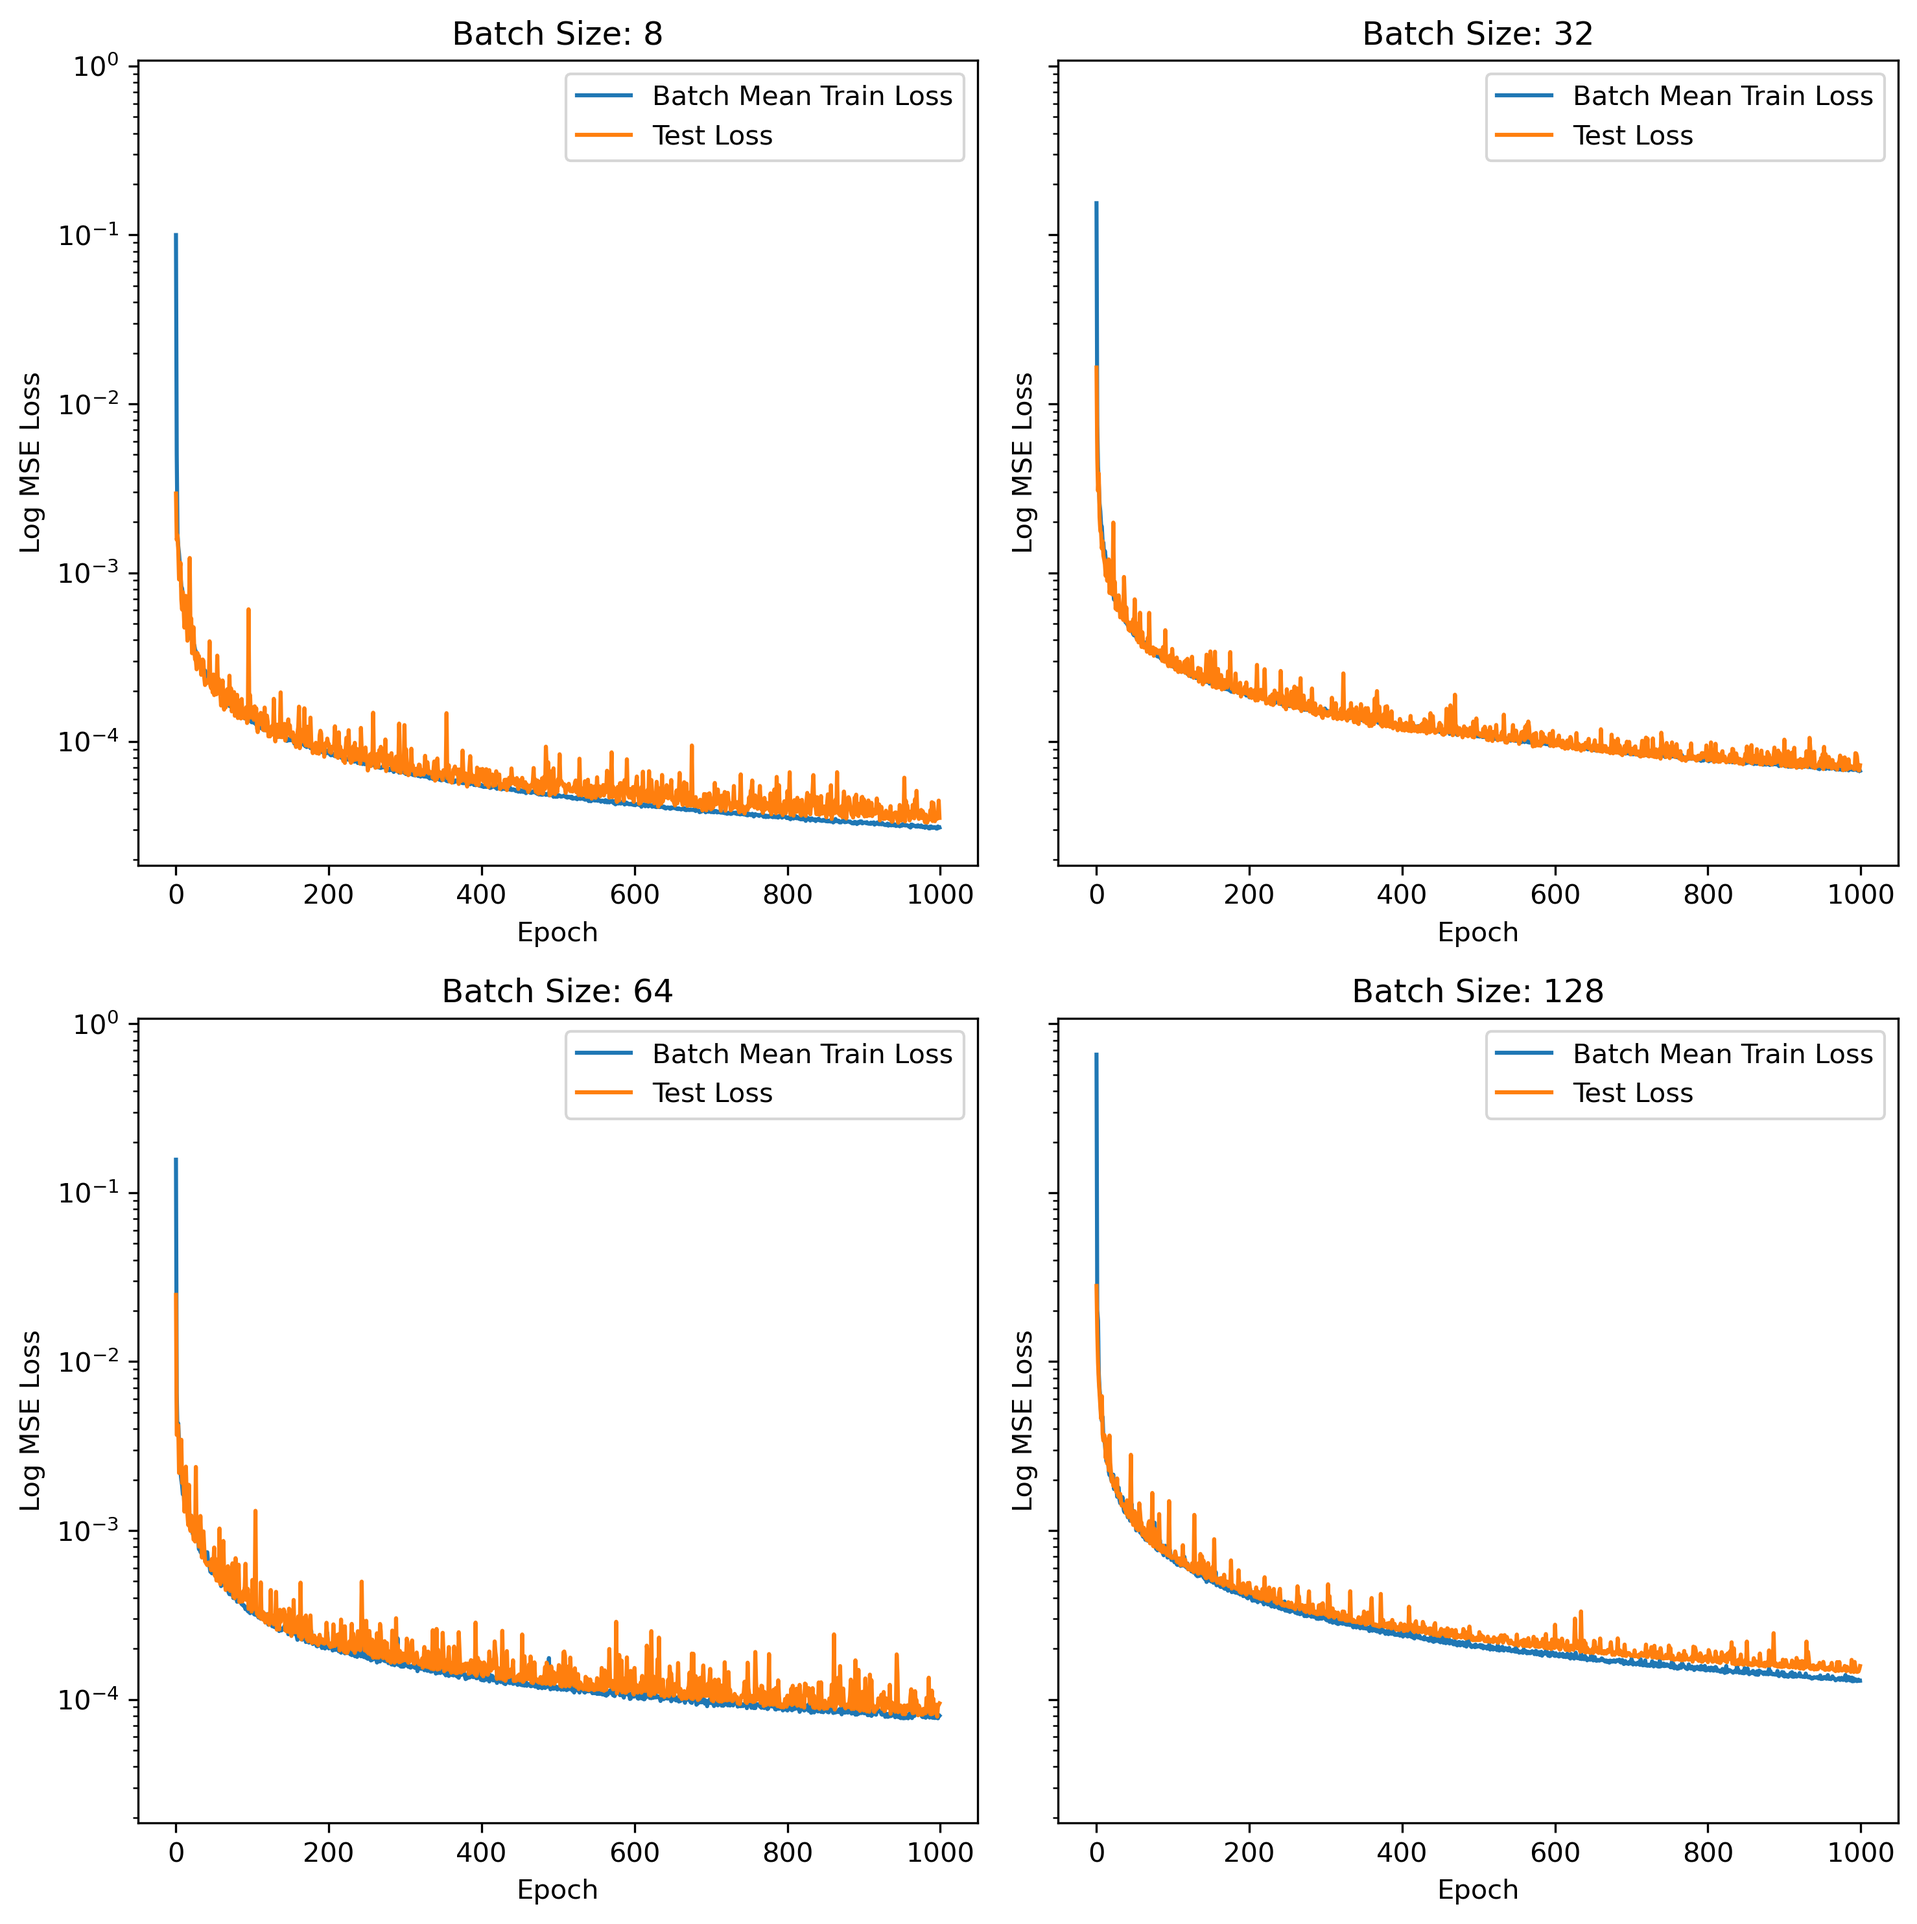
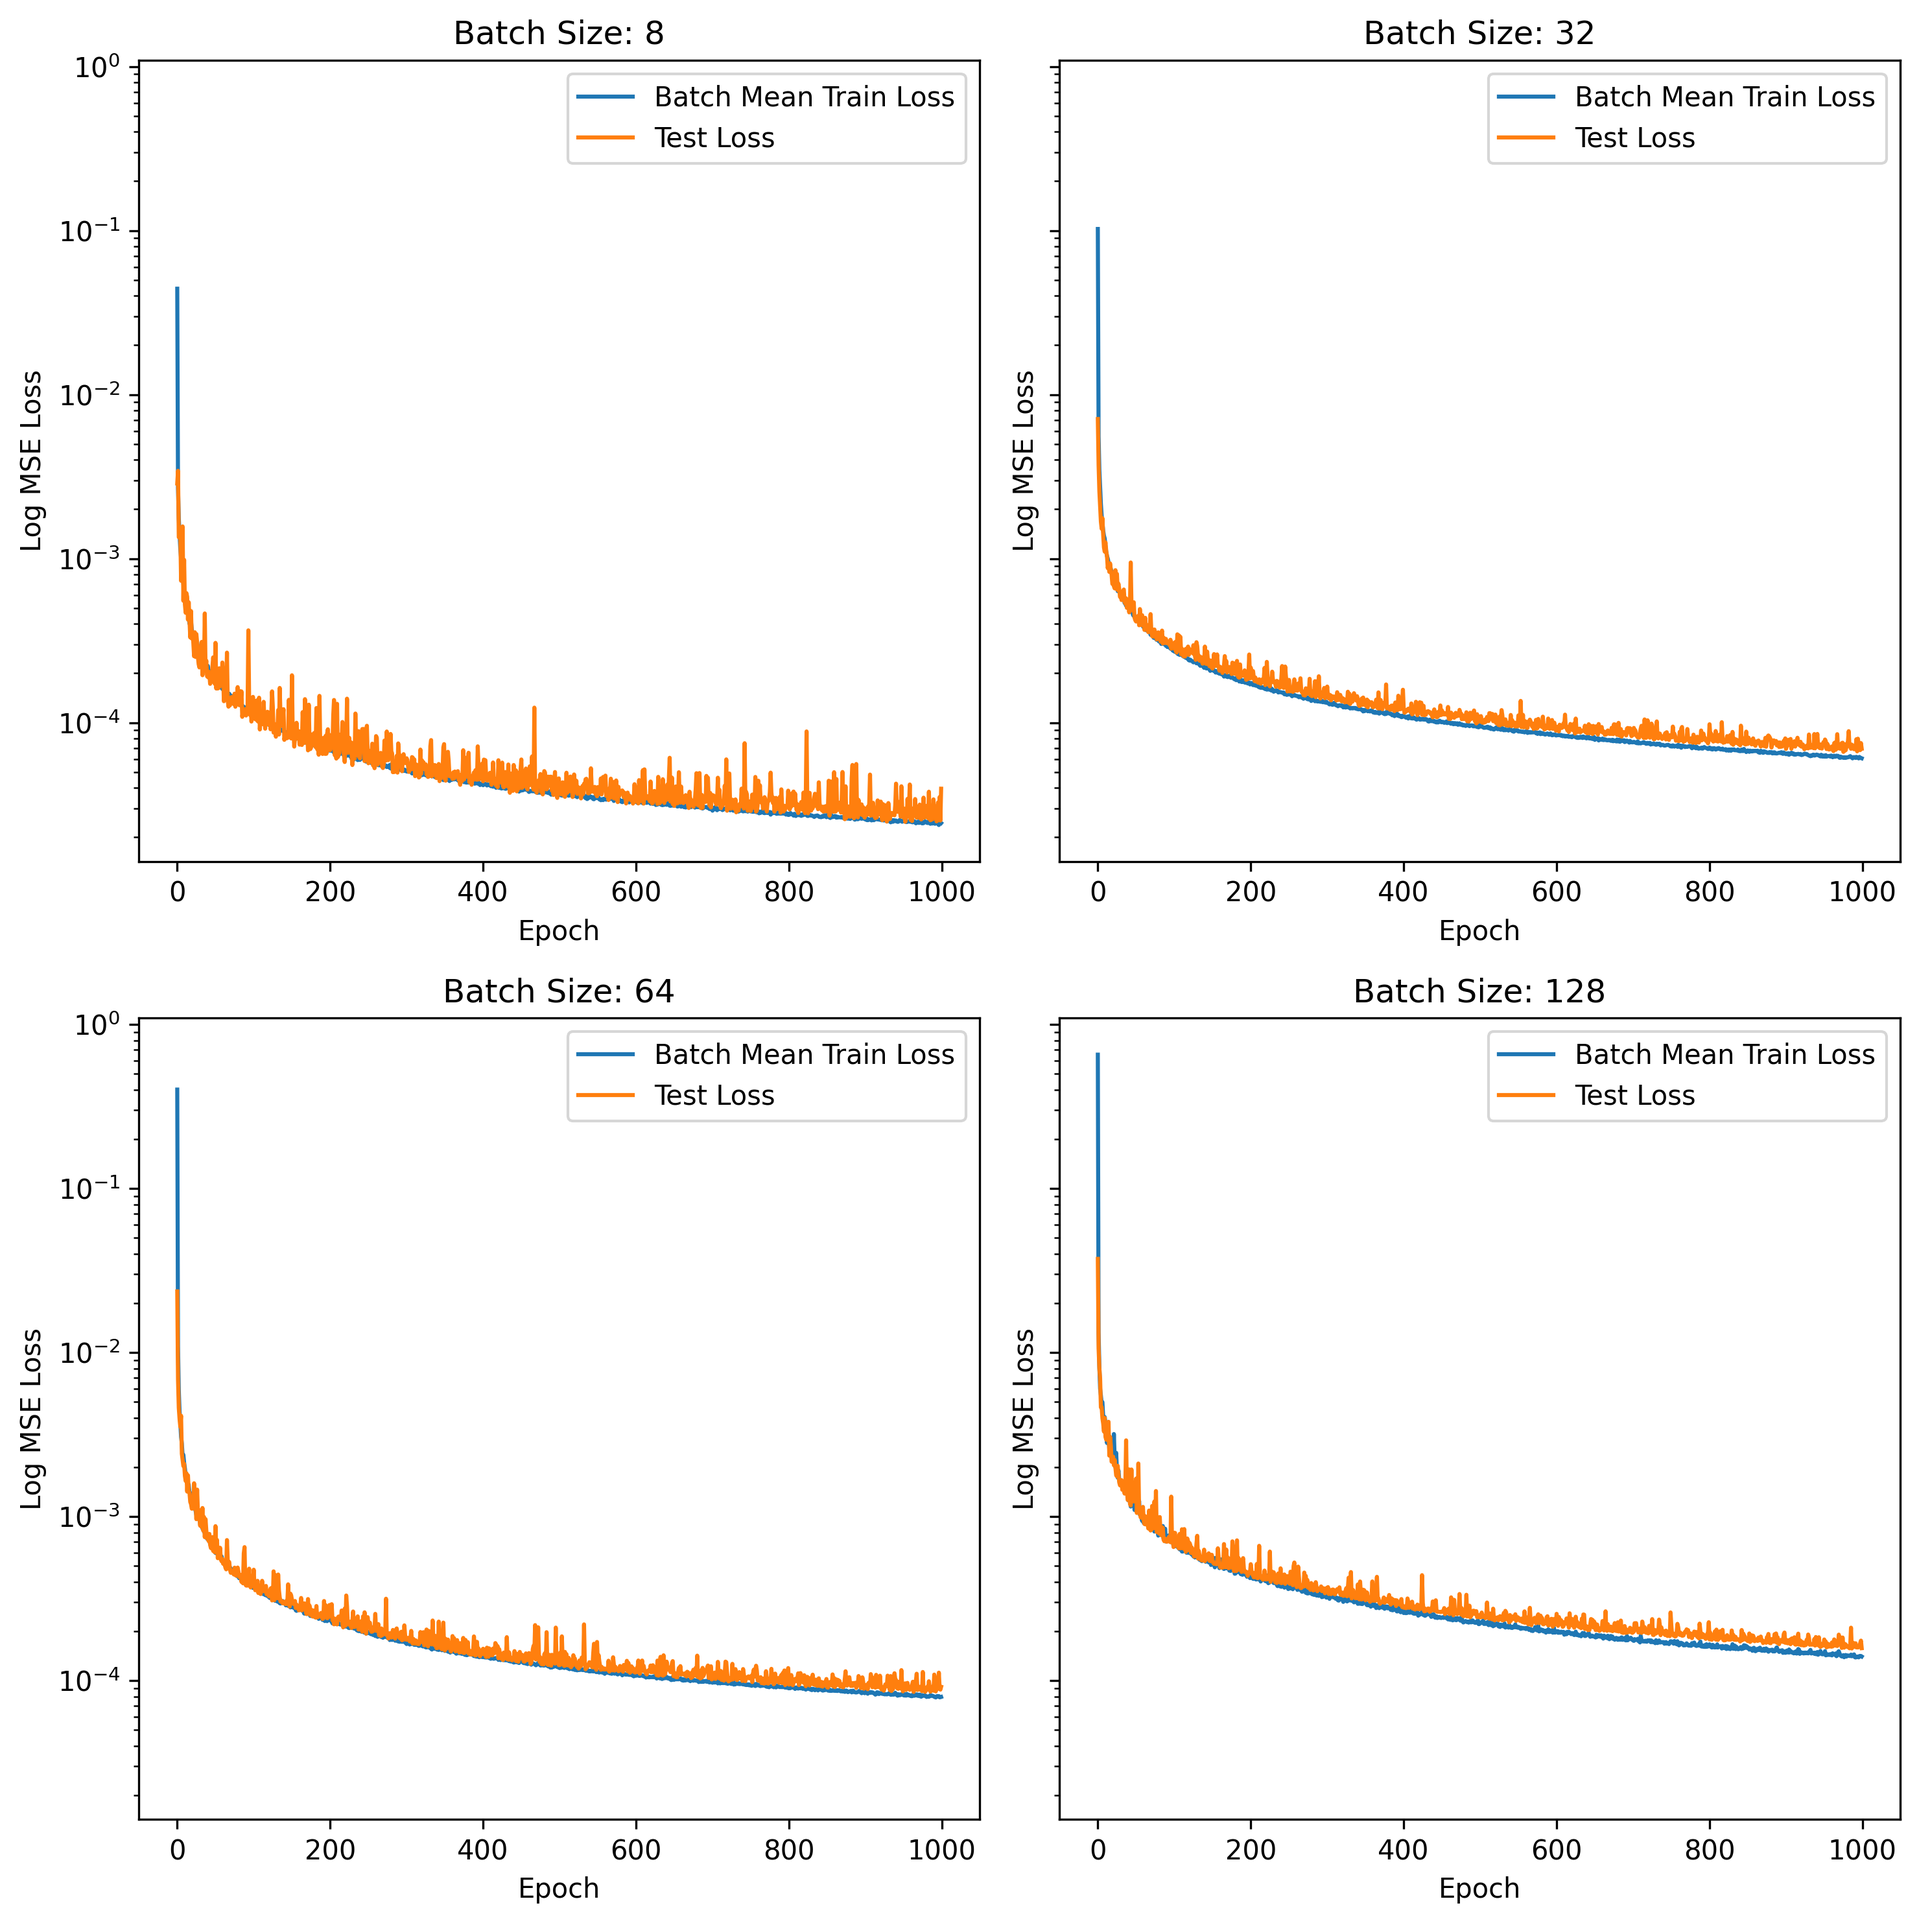
Adding in batch size functionality

diff --git a/midterm_nueralnetworks/cases/case_3_batch_experimentation.py b/midterm_nueralnetworks/cases/case_3_batch_experimentation.py
@@ -1,0 +1,88 @@
+import numpy as np
+from matplotlib import pyplot as plt
+from sklearn.metrics import mean_squared_error
+from sklearn.model_selection import train_test_split
+from sklearn.datasets import load_digits
+from sklearn.preprocessing import OneHotEncoder
+from midterm_nueralnetworks.neural_network.feed_forward_neural_network import FeedforwardNeuralNetwork
+from midterm_nueralnetworks.neural_network.layer import Layer
+from midterm_nueralnetworks.neural_network.loss import NLL_derivative_softmax
+
+
+def main():
+    print("Preparing data")
+    X, Y = load_digits(return_X_y=True)
+
+    encoder = OneHotEncoder()
+    Y = encoder.fit_transform(Y.reshape(-1, 1)).toarray()
+
+    X_train, X_test, Y_train, Y_test = train_test_split(X, Y, test_size=0.05, random_state=42, stratify=Y)
+
+    MAX_EPOCHS = 500
+    LR = 1e-3
+    batch_sizes = [8, 32, 64, 128]  # List of batch sizes to experiment with
+
+    fig, axs = plt.subplots(2, 2, figsize=(10, 10), sharey=True)
+
+    for batch_size, ax in zip(batch_sizes, axs.flatten()):
+
+        # Initialize the network
+        net = FeedforwardNeuralNetwork([
+            Layer(64, 64, "relu"),
+            Layer(64, 32, "relu"),
+            Layer(32, 10, "softmax", final_layer=True)
+        ])
+
+        train_losses = np.zeros(MAX_EPOCHS)
+        test_losses = np.zeros(MAX_EPOCHS)
+
+        print(f"Training model with batch size {batch_size}")
+        for epoch in range(MAX_EPOCHS):
+            batch_losses = []
+            for i, (x_batch, y_batch) in enumerate(get_batches(X_train, Y_train, batch_size)):
+                y_pred = net.forward(x_batch)
+                batch_losses.append(nll_loss(y_pred, y_batch))
+                net.backward(y_pred, y_batch, NLL_derivative_softmax)
+                net.gd(LR)
+                net.zero_grad()
+            mean_train_loss = np.mean(batch_losses)
+            test_loss = nll_loss(net.forward(X_test), Y_test)
+            net.zero_grad()
+
+            train_losses[epoch] = mean_train_loss
+            test_losses[epoch] = test_loss
+
+            if epoch % 10 == 0:
+                print(f"Epoch {str(epoch).zfill(2)}, Mean Train Loss: {mean_train_loss}, Test Loss: {test_loss}")
+
+        ax.plot(train_losses, label="Train Loss")
+        ax.plot(test_losses, label="Test Loss")
+        ax.set(
+            xlabel="Epoch",
+            ylabel="Log Loss",
+            title=f"Batch Size: {batch_size}"
+        )
+        ax.set_yscale('log')
+        ax.legend()
+
+    plt.tight_layout()
+    plt.show()
+
+
+def get_batches(X, Y, batch_size):
+    indices = np.arange(len(X))
+    np.random.shuffle(indices)
+
+    for i in range(0, len(X), batch_size):
+        batch_indices = indices[i:i + batch_size]
+        yield X[batch_indices], Y[batch_indices]
+
+
+def nll_loss(output, target):
+    """Calculate the Negative Log Likelihood Loss for a batch."""
+    output = np.clip(output, 1e-10, 1 - 1e-10)
+    return -np.sum(target * np.log(output)) / target.shape[0]
+
+
+if __name__ == "__main__":
+    main()
